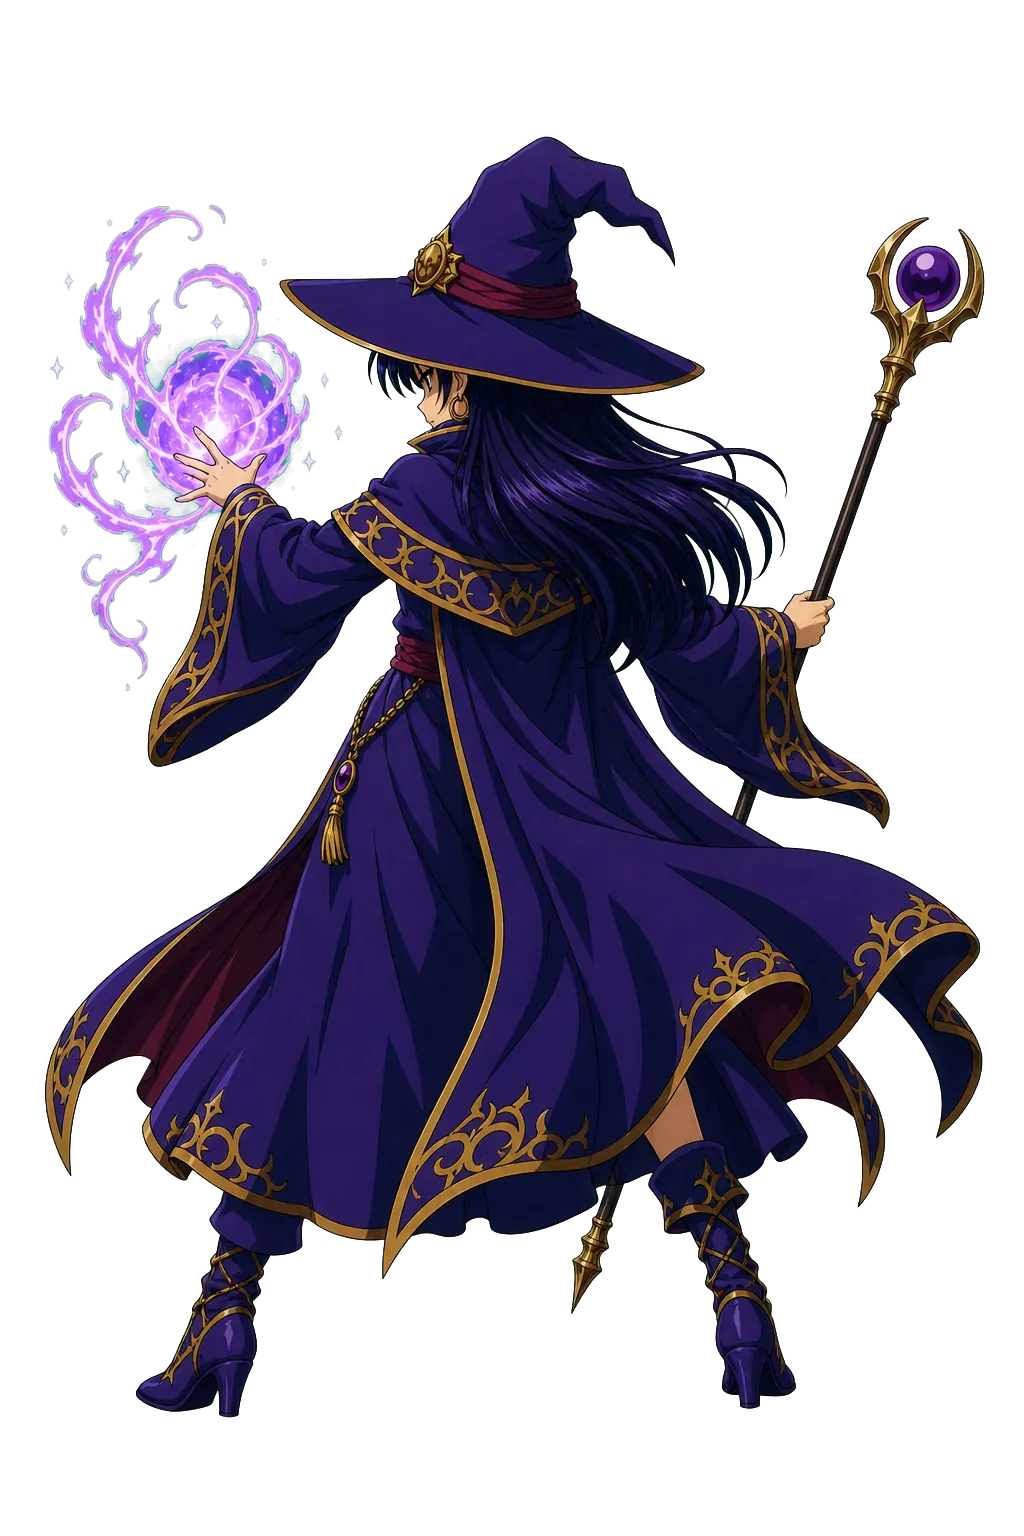
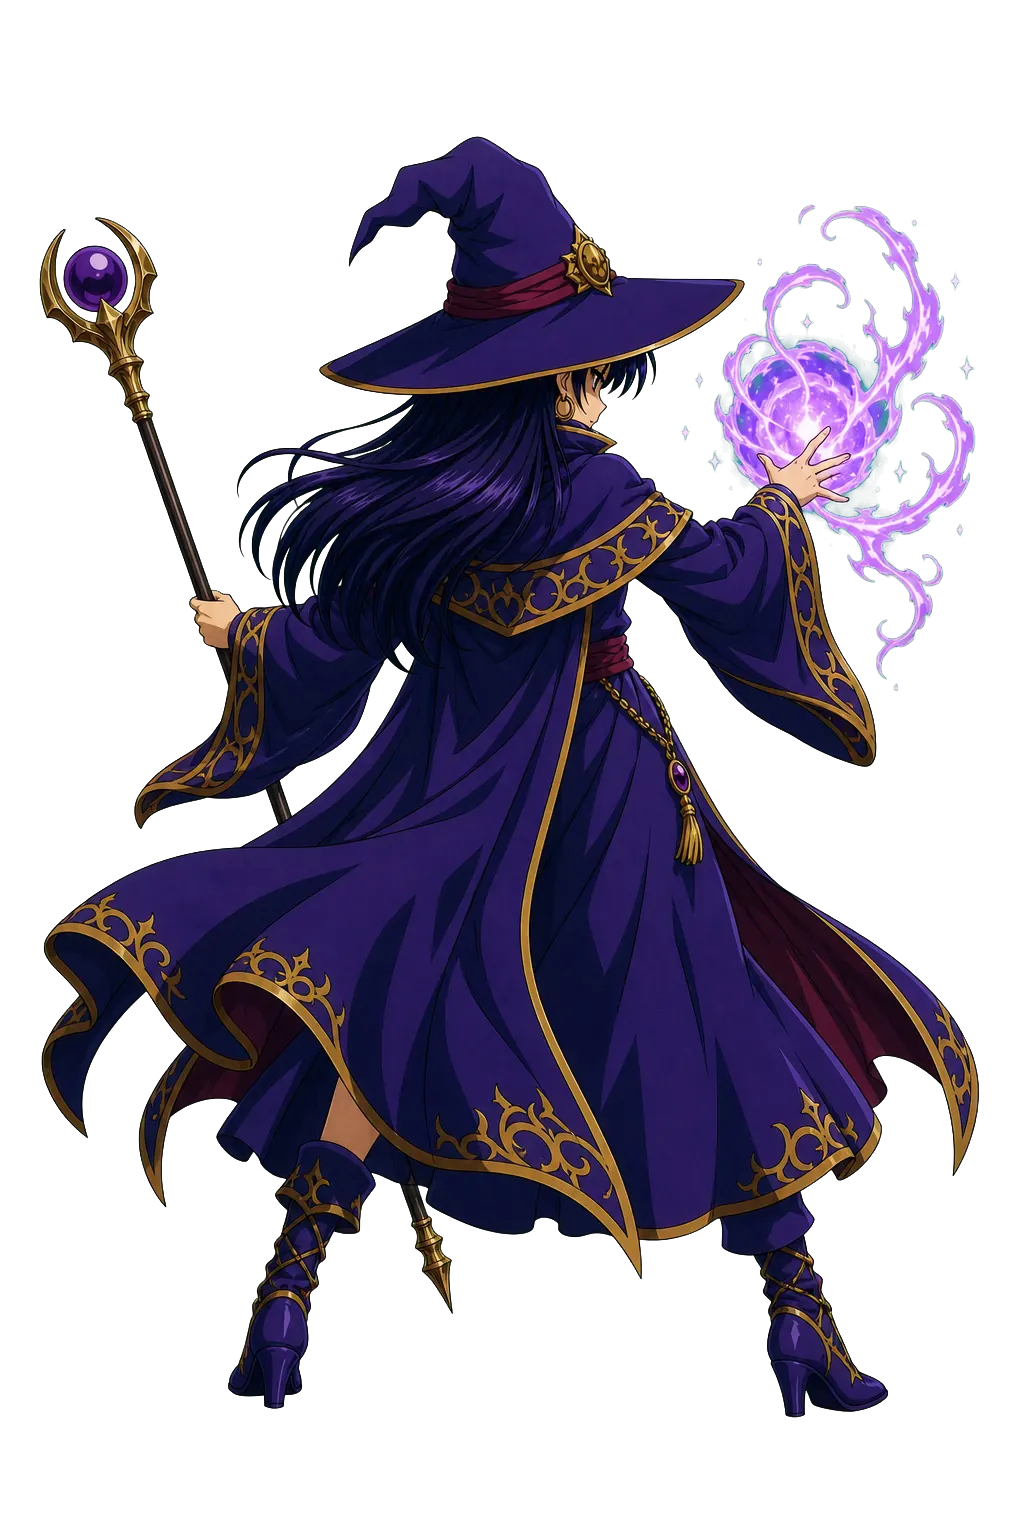
完善角色连续攻击动画

diff --git a/questers_demo_v0.99.html b/questers_demo_v0.99.html
@@ -4370,13 +4370,13 @@
         if (avatar) {
             avatar.src = character.battleBack;
             avatar.dataset.idleSrc = character.battleBack;
-            avatar.dataset.attackSrc = character.battleBackAttack || character.battleBack;
+            avatar.attackFrames = character.battleBackAttackFrames || [];
             avatar.alt = character.name;
             avatar.className = `character-${character.id}`;
-            if (character.battleBackAttack) {
+            avatar.attackFrames.forEach(frame => {
                 const attackFramePreload = new Image();
-                attackFramePreload.src = character.battleBackAttack;
-            }
+                attackFramePreload.src = frame.src;
+            });
         }
         const hudPortrait = document.getElementById('player-hud-portrait-img');
         if (hudPortrait) {
@@ -5023,26 +5023,42 @@
         const avatar = document.getElementById('player-avatar-img');
         if (!avatarFrame || !avatar) return;
         const token = ++playerAttackAnimationToken;
+        const attackFrames = Array.isArray(avatar.attackFrames) ? avatar.attackFrames : [];
         avatarFrame.classList.remove('player-anim-attack');
         void avatarFrame.offsetWidth;
-        avatar.src = avatar.dataset.attackSrc || avatar.dataset.idleSrc || avatar.src;
         avatarFrame.classList.add('player-anim-attack');
+        let elapsed = attackFrames[0]?.duration || 0;
+        if (attackFrames[0]) avatar.src = attackFrames[0].src;
+        attackFrames.slice(1).forEach(frame => {
+            setTimeout(() => {
+                if (token === playerAttackAnimationToken) avatar.src = frame.src;
+            }, elapsed);
+            elapsed += frame.duration;
+        });
         setTimeout(() => {
-            if (token === playerAttackAnimationToken) avatar.src = avatar.dataset.idleSrc || avatar.src;
-        }, 340);
-        setTimeout(() => {
-            if (token === playerAttackAnimationToken) avatarFrame.classList.remove('player-anim-attack');
-        }, 500);
+            if (token !== playerAttackAnimationToken) return;
+            avatar.src = avatar.dataset.idleSrc || avatar.src;
+            avatarFrame.classList.remove('player-anim-attack');
+        }, Math.max(480, elapsed));
     }
 
     function triggerVFX(type) {
         const vfx = document.getElementById(`vfx-${type}`); const el = vfx.firstElementChild;
+        const vfxToken = (vfx.animationToken || 0) + 1;
+        vfx.animationToken = vfxToken;
         vfx.style.display = 'flex'; el.style.animation = 'none'; void el.offsetWidth;
-        if(type==='p-atk') { triggerPlayerAttackAnimation(); el.style.animation = 'pAtkAnim 0.3s ease-in forwards'; }
+        if(type==='p-atk') {
+            triggerPlayerAttackAnimation();
+            setTimeout(() => {
+                if (vfx.animationToken === vfxToken) el.style.animation = 'pAtkAnim 0.3s ease-in forwards';
+            }, 140);
+        }
         if(type==='p-def') el.style.animation = 'pDefAnim 0.4s ease-out forwards';
         if(type==='e-atk') { el.style.animation = 'eAtkAnim 0.3s ease-in forwards'; document.getElementById('game-app').classList.add('screen-shake'); setTimeout(()=>document.getElementById('game-app').classList.remove('screen-shake'), 400); }
         if(type==='e-def') el.style.animation = 'eDefAnim 0.4s ease-out forwards';
-        setTimeout(() => { vfx.style.display = 'none'; }, 400);
+        setTimeout(() => {
+            if (vfx.animationToken === vfxToken) vfx.style.display = 'none';
+        }, type === 'p-atk' ? 500 : 400);
     }
 
     let cardsPlayedThisTurn = 0;

diff --git a/src/data/characters.js b/src/data/characters.js
@@ -17,7 +17,10 @@ const CHARACTERS = {
         portrait: 'assets/characters/warrior/select_portrait_v1.webp',
         avatarPortrait: 'assets/characters/warrior/avatar_portrait_v1.webp',
         battleBack: 'assets/characters/warrior/battle_back_idle_v1.webp',
-        battleBackAttack: 'assets/characters/warrior/battle_back_attack_start_v1.webp',
+        battleBackAttackFrames: [
+            { src: 'assets/characters/warrior/battle_back_attack_start_v1.webp', duration: 150 },
+            { src: 'assets/characters/warrior/battle_back_skill_cast_v1.webp', duration: 190 }
+        ],
         accentClass: '',
         starterHint: '护盾是战士的基础生存手段；开局通过核心遗物确定圣剑反击、处刑连斩或血誓狂战路线。'
     },
@@ -37,7 +40,10 @@ const CHARACTERS = {
         portrait: 'assets/characters/mage/select_portrait_v1.webp',
         avatarPortrait: 'assets/characters/mage/avatar_portrait_v1.webp',
         battleBack: 'assets/characters/mage/battle_back_idle_v1.webp',
-        battleBackAttack: 'assets/characters/mage/battle_back_attack_start_v1.webp',
+        battleBackAttackFrames: [
+            { src: 'assets/characters/mage/battle_back_attack_start_v1.webp', duration: 150 },
+            { src: 'assets/characters/mage/battle_back_skill_cast_v1.webp', duration: 190 }
+        ],
         accentClass: 'featured',
         starterHint: '治愈是法师的基础生存手段；开局通过核心遗物确定星火咏唱、镜像回路或灾厄术士路线。'
     },
@@ -57,7 +63,10 @@ const CHARACTERS = {
         portrait: 'assets/characters/archer/select_portrait_v1.webp',
         avatarPortrait: 'assets/characters/archer/avatar_portrait_v1.webp',
         battleBack: 'assets/characters/archer/battle_back_idle_v1.webp',
-        battleBackAttack: 'assets/characters/archer/battle_back_attack_start_v1.webp',
+        battleBackAttackFrames: [
+            { src: 'assets/characters/archer/battle_back_attack_start_v1.webp', duration: 170 },
+            { src: 'assets/characters/archer/battle_back_skill_cast_v1.webp', duration: 150 }
+        ],
         accentClass: '',
         starterHint: '基础射击输出，闪避可完全躲开一段主体攻击；开局通过核心遗物确定疾风、猎毒或放逐路线。'
     }

diff --git a/tools/optimize_pages_assets.py b/tools/optimize_pages_assets.py
@@ -13,7 +13,7 @@ import json
 import re
 from pathlib import Path
 
-from PIL import Image
+from PIL import Image, ImageOps
 
 
 ROOT = Path(__file__).resolve().parents[1]
@@ -33,6 +33,7 @@ IMAGE_EXT_RE = re.compile(r"\.(png|jpg|jpeg)$", re.IGNORECASE)
 
 DYNAMIC_IMAGE_GLOBS = [
     "assets/source/characters/*/battle_back/attack_start_v1_source.png",
+    "assets/source/characters/*/battle_back/skill_cast_v1_source.png",
     "assets/source/enemies/battle/*.png",
     "assets/source/enemies/portraits/*.png",
     "assets/source/relics/icons/*.png",
@@ -126,6 +127,11 @@ def convert_to_webp(source_rel: Path, quality: int, force: bool) -> dict | None:
         image.load()
         if image.mode not in ("RGB", "RGBA"):
             image = image.convert("RGBA" if "A" in image.getbands() else "RGB")
+        if source_rel.as_posix() in {
+            "assets/source/characters/mage/battle_back/attack_start_v1_source.png",
+            "assets/source/characters/mage/battle_back/skill_cast_v1_source.png",
+        }:
+            image = ImageOps.mirror(image)
         image.save(target, "WEBP", quality=quality, method=6)
 
     return {
